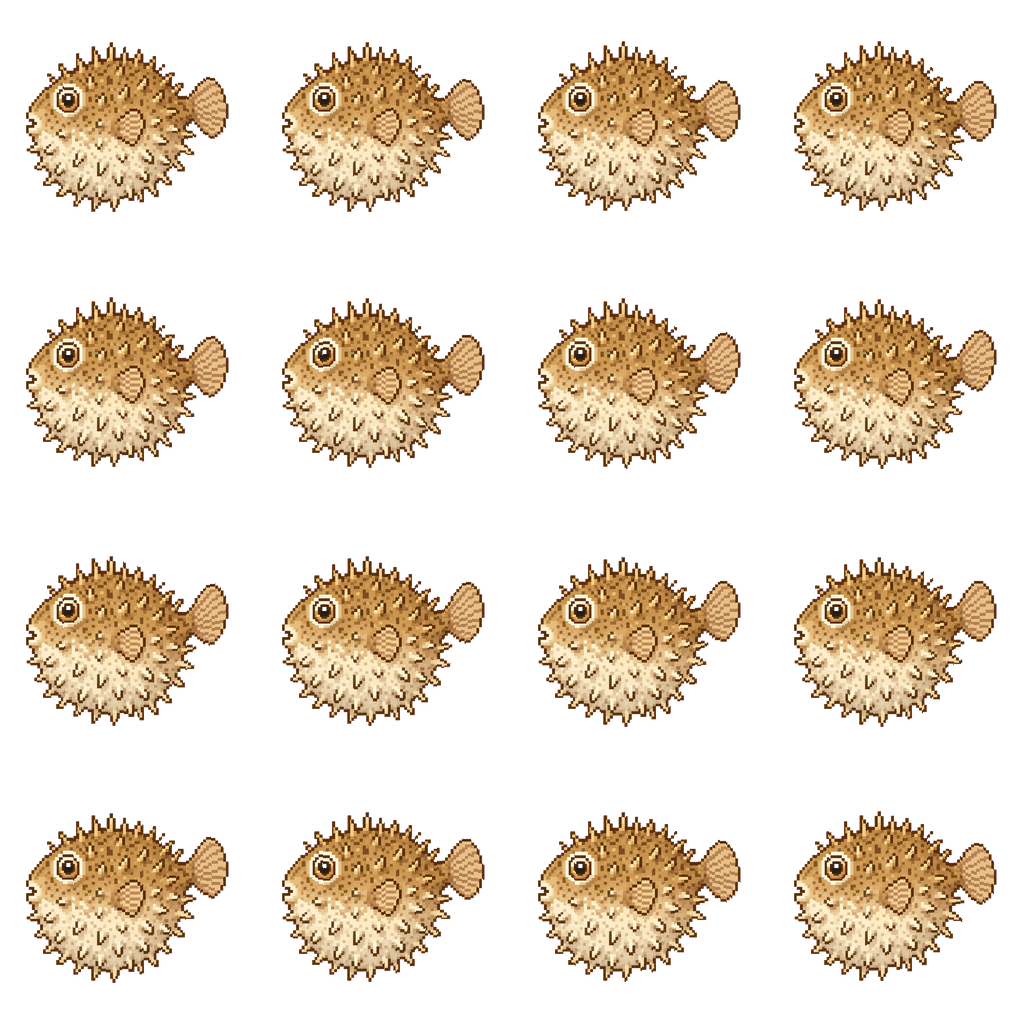
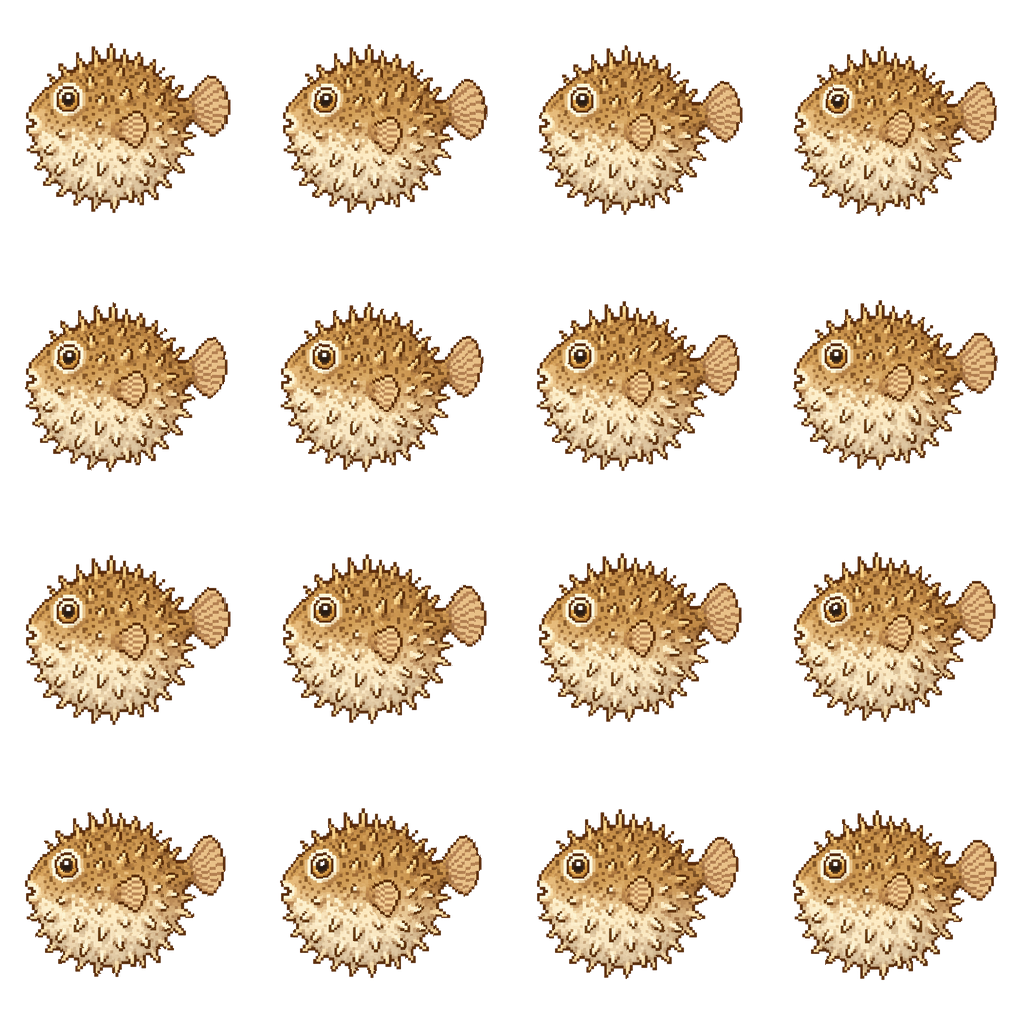
Independent fin motion, and a rigid-body profile for the pufferfish
Betta: the rigid torso swing was carrying the fins rather than letting them
move, so fin amplitude is back up and the dorsal and anal fins are given
opposite phase - a symmetric pulse reads as unnatural. Fin edges also curl
further than fin bases.

Pufferfish gets a new 'rigid' profile, the inverse of the betta: an inflated
puffer physically cannot flex, so the body only rocks and bobs while the small
pectoral fan whirring at 4x the body rate provides the propulsion and the tail
trails as a rudder.

Loop closure verified exactly, not by eye: rendering the frame at phase 2*pi
and differencing it against frame 0 gives a maximum channel difference of 0 for
all three profiles.

diff --git a/make_spritesheet.py b/make_spritesheet.py
@@ -37,6 +37,7 @@ STILLS = os.path.join(ASSETS, "stills")
 MOTION = {
     "betta_fish": "veil",
     "cherry_shrimp": "shrimp",
+    "pufferfish": "rigid",
     "seahorse": "sway",
 }
 
@@ -183,18 +184,62 @@ def frame_veil(base, phase, body_line=0.42, fin_start=0.10, caudal_start=0.55):
         dy += 3.0 * math.sin(phase + 0.6)
         dx += 1.6 * math.sin(phase * 2 + 0.3)
 
-        # fins add a trailing ripple on top of the rigid swing
+        # Fins ripple on their own account, on top of the rigid swing. Dorsal
+        # and anal are given opposite phase so the fish doesn't look like it is
+        # pulsing symmetrically, which reads as unnatural.
+        above = v < body_line
+        side_phase = 0.0 if above else 1.5
         lag = 1.9 * fin
-        dy += 5.5 * fin * math.sin(phase - lag + u * 3.0)
-        dx += 2.4 * caudal_fin * math.sin(phase - lag + 0.6)
+
+        dy += 9.5 * fin * math.sin(phase - lag + side_phase + u * 3.0)
+        dx += 4.0 * caudal_fin * math.sin(phase - lag + 0.6)
 
         # a finer ripple across the membrane, twice per cycle
-        dy += 2.6 * fin * math.sin(phase * 2 - lag + v * 7.0)
+        dy += 4.0 * fin * math.sin(phase * 2 - lag + side_phase + v * 7.0)
+
+        # the outermost edge curls further than the fin base
+        edge = fin ** 2
+        dy += 4.5 * edge * math.sin(phase * 2 - lag * 1.4 + u * 5.0)
+        dx += 2.5 * edge * math.sin(phase - lag * 1.4 + v * 4.0)
 
         # pectoral fan just behind the head flutters fast and independently
         pectoral = (smoothstep(0.16, 0.24, u) * (1.0 - smoothstep(0.30, 0.40, u))
                     * smoothstep(0.30, 0.42, v) * (1.0 - smoothstep(0.52, 0.62, v)))
-        dy += 2.2 * pectoral * math.sin(phase * 3)
+        dy += 3.0 * pectoral * math.sin(phase * 3)
+
+        return dx, dy
+
+    return mesh_warp(base, displace, cells=32)
+
+
+def frame_rigid_fins(base, phase, pectoral=(0.44, 0.66, 0.34, 0.66), caudal_start=0.76):
+    """Inflated body that cannot bend at all, driven entirely by its fins.
+
+    A pufferfish is the opposite of the betta: there the body was still and the
+    fins flowed, here the body is genuinely rigid - an inflated pufferfish
+    physically cannot flex - and the small pectoral fan whirring at 4x the body
+    rate is what moves it, with the tail trailing as a rudder.
+
+    `pectoral` is (u0, u1, v0, v1) bounding the pectoral fan.
+    """
+    u0, u1, v0, v1 = pectoral
+
+    def displace(u, v):
+        # the whole animal rocks and bobs, but never deforms
+        dx, dy = rigid_offset(u, v, 2.2 * math.sin(phase), pivot=(0.45, 0.50))
+        dy += 3.5 * math.sin(phase)
+        dx += 1.2 * math.sin(phase * 2 + 0.4)
+
+        # tail acts as a rudder rather than a motor - slower, wider sweep
+        caudal = smoothstep(caudal_start, 1.0, u)
+        dy += 7.5 * caudal * math.sin(phase * 2 + 0.5)
+        dx += 2.2 * caudal * math.sin(phase * 2 + 1.3)
+
+        # pectoral fan: small, fast, and the actual source of propulsion
+        fan = (smoothstep(u0, u0 + 0.06, u) * (1.0 - smoothstep(u1 - 0.06, u1, u))
+               * smoothstep(v0, v0 + 0.06, v) * (1.0 - smoothstep(v1 - 0.06, v1, v)))
+        dy += 4.5 * fan * math.sin(phase * 4)
+        dx += 3.0 * fan * math.sin(phase * 4 + 1.6)
 
         return dx, dy
 
@@ -258,7 +303,8 @@ def frame_sway(base, phase, amplitude=9.0, bob=3.5):
 
 
 FRAME_FN = {"swim": frame_swim, "hover": frame_hover, "sway": frame_sway,
-            "shrimp": frame_shrimp, "veil": frame_veil}
+            "shrimp": frame_shrimp, "veil": frame_veil,
+            "rigid": frame_rigid_fins}
 
 
 def build_sheet(base, motion="swim"):
